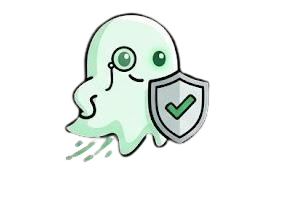
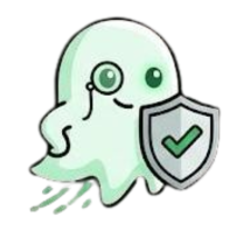
fix: update image dimensions and classes for mascot images

diff --git a/src/app/[locale]/page.tsx b/src/app/[locale]/page.tsx
@@ -62,7 +62,7 @@ export default async function Home({
                   height="12"
                   viewBox="0 0 24 24"
                   fill="none"
-                  stroke="currentColor"
+                  className="hero-mascot mx-auto mb-3 drop-shadow-md"
                   strokeWidth="2"
                   strokeLinecap="round"
                   strokeLinejoin="round"
@@ -77,9 +77,9 @@ export default async function Home({
               <img
                 src="/tracy/tracy-default.png"
                 alt="Tracy"
-                width={48}
-                height={48}
-                className="hero-mascot mx-auto mb-6 drop-shadow-md"
+                width={72}
+                height={72}
+                className="hero-mascot mx-auto mb-6 -mt-0.5 drop-shadow-md"
               />
             </FadeIn>
 
@@ -280,9 +280,9 @@ export default async function Home({
                     <img
                       src="/tracy/tracy-default.png"
                       alt="Tracy"
-                      width={48}
-                      height={48}
-                      className="mascot-image shrink-0"
+                      width={74}
+                      height={74}
+                      className="mascot-image shrink-0 -mt-0.5"
                     />
                     <div>
                       <span className="text-xs font-semibold text-accent uppercase tracking-wider">
@@ -342,9 +342,9 @@ export default async function Home({
                     <img
                       src="/tracy/tracy-routing.png"
                       alt="Tracy routing"
-                      width={80}
-                      height={80}
-                      className="mascot-image shrink-0"
+                      width={78}
+                      height={78}
+                      className="mascot-image shrink-0 -mt-0.5"
                     />
                     <div>
                       <span className="text-xs font-semibold text-accent uppercase tracking-wider">
@@ -373,9 +373,9 @@ export default async function Home({
                     <img
                       src="/tracy/tracy-cost.png"
                       alt="Tracy cost"
-                      width={80}
-                      height={80}
-                      className="mascot-image shrink-0"
+                      width={66}
+                      height={66}
+                      className="mascot-image shrink-0 -mt-0.5"
                     />
                     <div>
                       <span className="text-xs font-semibold text-accent uppercase tracking-wider">
@@ -426,9 +426,9 @@ export default async function Home({
                     <img
                       src="/tracy/tracy-alert.png"
                       alt="Tracy alert"
-                      width={80}
-                      height={80}
-                      className="mascot-image shrink-0"
+                      width={78}
+                      height={78}
+                      className="mascot-image shrink-0 -mt-1"
                     />
                     <div>
                       <span className="text-xs font-semibold text-accent uppercase tracking-wider">
@@ -457,9 +457,9 @@ export default async function Home({
                     <img
                       src="/tracy/tracy-zen.png"
                       alt="Tracy zen"
-                      width={80}
-                      height={80}
-                      className="mascot-image shrink-0"
+                      width={78}
+                      height={78}
+                      className="mascot-image shrink-0 -mt-1"
                     />
                     <div>
                       <span className="text-xs font-semibold text-accent uppercase tracking-wider">
@@ -507,9 +507,9 @@ export default async function Home({
                     <img
                       src="/tracy/tracy-security.png"
                       alt="Tracy security"
-                      width={80}
-                      height={80}
-                      className="mascot-image shrink-0"
+                      width={78}
+                      height={78}
+                      className="mascot-image shrink-0 -mt-1"
                     />
                     <div>
                       <span className="text-xs font-semibold text-accent uppercase tracking-wider">

diff --git a/src/app/globals.css b/src/app/globals.css
@@ -735,16 +735,12 @@ html.dark .feature-showcase-image {
 }
 
 .mascot-image {
-  width: 80px;
-  height: 80px;
   object-fit: contain;
   flex-shrink: 0;
   display: block;
 }
 
 .hero-mascot {
-  width: 160px;
-  height: 160px;
   object-fit: contain;
 }
 
@@ -768,16 +764,6 @@ html.dark .feature-showcase-image {
 
   .feature-showcase-image {
     width: 100%;
-  }
-
-  .mascot-image {
-    width: 68px;
-    height: 68px;
-  }
-
-  .hero-mascot {
-    width: 136px;
-    height: 136px;
   }
 
   .navbar-brand-mark {
